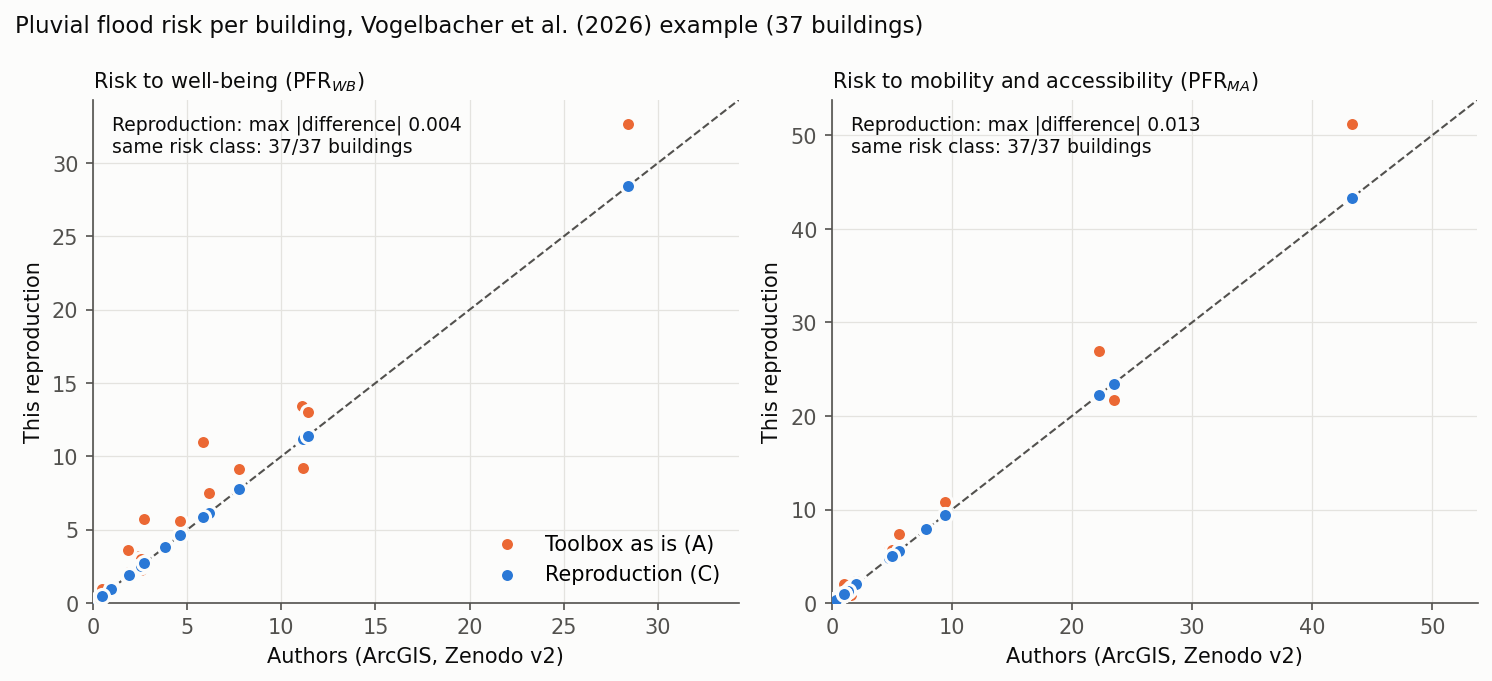
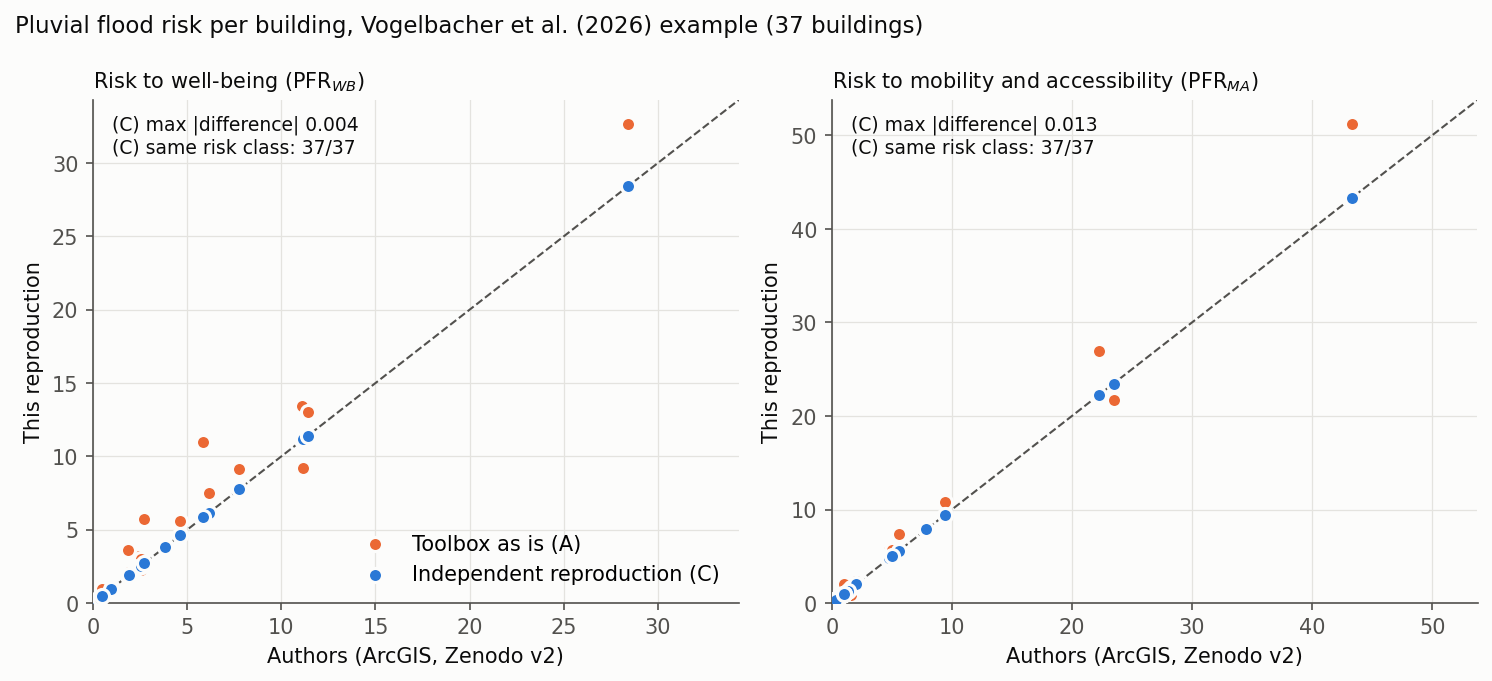
Scenario C: fully independent implementation (social vulnerability too)
Scenario C no longer uses the FAIR2Adapt toolbox: social vulnerability is
reimplemented from the paper and the authors' step-1 scripts (CC BY 4.0) —
TOPSIS with vector normalisation, Shannon-entropy factor, (SV + 0.25 mean)^2.
Matches the authors exactly (Sen 0, SV 2e-16, SV_PF 4e-16) with sensitivity
weights children 0.3 / elderly singles 0.7, as in Eq. 2 and the authors'
results; the paper's text (Sect. 3.1.1) states 0.7 / 0.3. The toolbox remains
only in scenarios A and B as the comparison. Results otherwise unchanged
(risk classes 37/37 for both indices).

Changed region(s): [[0.555, 0.1542, 0.8016, 0.2467], [0.0617, 0.1542, 0.3083, 0.2467], [0.2466, 0.7709, 0.4933, 0.8634]]

diff --git a/notebooks/03_analysis.py b/notebooks/03_analysis.py
@@ -137,33 +137,73 @@ port_b.to_csv(RESULTS / "port_output_published_exposure.csv", index=False)
 print(f"scenario B: {len(port_b)} buildings, exposure from RB/RBG")
 
 # %% [markdown]
-# ### Scenario C — hazards with the authors' ring rule
+# ### Scenario C — an independent open implementation
 #
-# Scenarios A and B leave a residual in both hazard indices (HWB, HMA) for the
-# buildings that have a neighbour within 2 m. The authors' own intermediates
-# (v1: flooded area `A2Flood_*` and fraction `P2Flood_*` per depth, 5-m
-# fraction `F30P5m`) show why: their rings exclude **every** building
-# footprint, not only the building's own (see Sect. 4.2 on semi-detached
-# houses, and section 6 below). The toolbox excludes only the building's own
-# footprint.
+# Everything in scenario C is computed by the code in this notebook, written
+# from the paper (Sect. 3) and the authors' exported scripts (Zenodo, CC BY 4.0),
+# with no code from the FAIR2Adapt toolbox. The toolbox appears only in
+# scenarios A and B, as the comparison.
 #
-# Scenario C keeps the toolbox's social vulnerability, takes exposure as
-# published (as in B), and recomputes both hazards here with the authors' ring
-# rule; risk then follows the paper's Eqs. 14–15 with unit exponents:
-# PFR_WB = SV_PF · E_WB · HWB and PFR_MA = SV_PF · E_MA · HMA.
+# **Social vulnerability** — as in the authors' step-1 scripts: TOPSIS with
+# vector normalisation (each attribute divided by sqrt of the sum of squares,
+# then multiplied by its weight; the paper's Eq. 4 shows a sum instead),
+# closeness = distance to the minimum / (distance to the minimum + distance to
+# the maximum), multiplied by the Shannon-entropy index U = 2 + Σ p ln p / ln n
+# of the building's weighted values (U = 2 when any value is zero), then
+# SV_PF = (SV + 0.25 · mean SV)². Weights: sensitivity = children 0.3, elderly
+# singles 0.7; coping capacity = welfare recipients 0.5, school leavers without
+# diploma 0.5; SVI = sensitivity 0.5, coping capacity 0.5. The sensitivity
+# weights are those of the paper's Eq. 2 and of the authors' results; the
+# paper's text (Sect. 3.1.1) gives them the other way round (children 0.7).
 #
-# Everything else is the paper's method as the toolbox implements it:
+# **Exposure** — as published (`RB`/`RBG`), as in scenario B.
+#
+# **Hazards** — with the authors' ring rule. Scenarios A and B leave a residual
+# in both hazard indices for buildings with a neighbour within 2 m; the authors'
+# v1 intermediates (`A2Flood_*`, `P2Flood_*`, `F30P5m`) show that their rings
+# exclude **every** building footprint, not only the building's own (section 6).
 # HWB = Σ over depths 30–100 cm of lognorm.cdf(4 · flooded fraction of the 2-m
-# ring, s = 0.25); HMA = lognorm.cdf(4 · max(f5, f15, f30), s = 0.25), where f5 is
+# ring, s = 0.25); HMA = lognorm.cdf(4 · max(f5, f15, f30), s = 0.25), with f5
 # the flooded fraction of the 5-m ring and f15, f30 the flooded fraction of the
 # street area inside the 0–15 m and 15–30 m rings, at 30 cm. Buffers are drawn
 # in EPSG:3857 units, as the authors' data are.
+#
+# **Risk** — Eqs. 14–15 with unit exponents: PFR_WB = SV_PF · E_WB · HWB and
+# PFR_MA = SV_PF · E_MA · HMA.
 
 # %%
 from scipy.stats import lognorm
 from shapely.ops import unary_union
 
 SHAPE = 0.25
+
+
+def topsis(values: np.ndarray, weights: list[float], entropy: bool = True) -> np.ndarray:
+    """Closeness to the worst case, as in the authors' step-1 scripts."""
+    x = np.nan_to_num(np.asarray(values, float))
+    w = np.asarray(weights, float)
+    norm = np.sqrt((x ** 2).sum(axis=0))
+    z = np.divide(x, norm, out=np.zeros_like(x), where=norm > 0) * w
+    d_max = np.sqrt(((z - z.max(axis=0)) ** 2).sum(axis=1))
+    d_min = np.sqrt(((z - z.min(axis=0)) ** 2).sum(axis=1))
+    total = d_max + d_min
+    closeness = np.divide(d_min, total, out=np.zeros_like(total), where=total != 0)
+    if not entropy:
+        return closeness
+    u = np.full(len(z), 2.0)
+    complete = (z != 0).all(axis=1)
+    p = z[complete] / z[complete].sum(axis=1, keepdims=True)
+    u[complete] = 2 + (p * np.log(p)).sum(axis=1) / np.log(z.shape[1])
+    return closeness * u
+
+
+def social_vulnerability(b: pd.DataFrame) -> pd.DataFrame:
+    sensitivity = topsis(b[["C", "ES"]], [0.3, 0.7])
+    coping = topsis(b[["WR", "EDQ"]], [0.5, 0.5])
+    svi = topsis(np.column_stack([sensitivity, coping]), [0.5, 0.5])
+    return pd.DataFrame({"ID": b["ID"].astype(int).values, "Sensitivity": sensitivity,
+                         "CopingCapacity": coping, "SVI": svi,
+                         "SVPF": (svi + 0.25 * svi.mean()) ** 2})
 
 
 def rings_without_buildings(footprints: gpd.GeoSeries, distance: float) -> gpd.GeoSeries:
@@ -200,10 +240,14 @@ def hazards_authors_rule(src: Path, crs: str = "EPSG:3857") -> pd.DataFrame:
 
 
 hz = hazards_authors_rule(src)
-port_c = port_b.drop(columns=["HMA", "HWB", "PFRMA", "PFRWB"]).merge(hz[["ID", "HMA", "HWB"]], on="ID")
+inputs = gpd.read_file(src, layer="buildings").drop(columns="geometry")
+port_c = (social_vulnerability(inputs)
+          .merge(published_exposure.rename(columns={"RB": "R", "RBG": "R_G"}), on="ID")
+          .merge(hz[["ID", "HMA", "HWB"]], on="ID"))
+port_c[["R", "R_G"]] = port_c[["R", "R_G"]].astype(float)
 port_c["PFRMA"] = port_c["SVPF"] * port_c["R"] * port_c["HMA"]
 port_c["PFRWB"] = port_c["SVPF"] * port_c["R_G"] * port_c["HWB"]
-port_c.to_csv(RESULTS / "port_output_authors_ring_rule.csv", index=False)
+port_c.to_csv(RESULTS / "output_independent.csv", index=False)
 print(f"scenario C: {len(port_c)} buildings")
 
 # %% [markdown]
@@ -272,7 +316,7 @@ def compare(ref: pd.DataFrame, version: str, port: pd.DataFrame,
 
 
 SCENARIOS = {"A_toolbox_exposure": port, "B_published_exposure": port_b,
-             "C_authors_ring_rule": port_c}
+             "C_independent": port_c}
 summaries = []
 for scenario, run_output in SCENARIOS.items():
     for version, ref in refs.items():
@@ -313,7 +357,7 @@ def risk_class(values, breaks) -> np.ndarray:
 
 
 CLASS_NAMES = ["no risk", "low", "medium", "high", "very high"]
-c_v2 = pd.read_csv(RESULTS / "per_building_v2_C_authors_ring_rule.csv")
+c_v2 = pd.read_csv(RESULTS / "per_building_v2_C_independent.csv")
 class_rows = []
 per_building_classes = pd.DataFrame({"ID": c_v2["ID"].astype(int)})
 for field in ("PFR_WB", "PFR_MA"):

diff --git a/notebooks/04_figures.py b/notebooks/04_figures.py
@@ -67,7 +67,7 @@ LABELS = {"PFR_WB": "Risk to well-being (PFR$_{WB}$)",
 
 # %%
 a = pd.read_csv(RESULTS / "per_building_v2_A_toolbox_exposure.csv")
-c = pd.read_csv(RESULTS / "per_building_v2_C_authors_ring_rule.csv")
+c = pd.read_csv(RESULTS / "per_building_v2_C_independent.csv")
 cls = pd.read_csv(RESULTS / "risk_classes_per_building_v2_C.csv")
 
 fig, axes = plt.subplots(1, 2, figsize=(10, 4.6))
@@ -78,11 +78,11 @@ for ax, field in zip(axes, ("PFR_WB", "PFR_MA")):
     ax.scatter(a[f"{field}_ref"], a[f"{field}_port"], s=46, color=TOOLBOX,
                edgecolor="#fcfcfb", linewidth=1.5, zorder=2, label="Toolbox as is (A)")
     ax.scatter(c[f"{field}_ref"], c[f"{field}_port"], s=46, color=OURS,
-               edgecolor="#fcfcfb", linewidth=1.5, zorder=3, label="Reproduction (C)")
+               edgecolor="#fcfcfb", linewidth=1.5, zorder=3, label="Independent reproduction (C)")
     same = int((cls[f"{field}_class_ref"] == cls[f"{field}_class_ours"]).sum())
     maxdiff = float((c[f"{field}_port"] - c[f"{field}_ref"]).abs().max())
-    ax.text(0.03, 0.97, f"Reproduction: max |difference| {maxdiff:.3f}\n"
-                        f"same risk class: {same}/{len(cls)} buildings",
+    ax.text(0.03, 0.97, f"(C) max |difference| {maxdiff:.3f}\n"
+                        f"(C) same risk class: {same}/{len(cls)}",
             transform=ax.transAxes, va="top", color=INK, fontsize=9)
     ax.set_xlim(0, top); ax.set_ylim(0, top)
     ax.set_xlabel("Authors (ArcGIS, Zenodo v2)")
